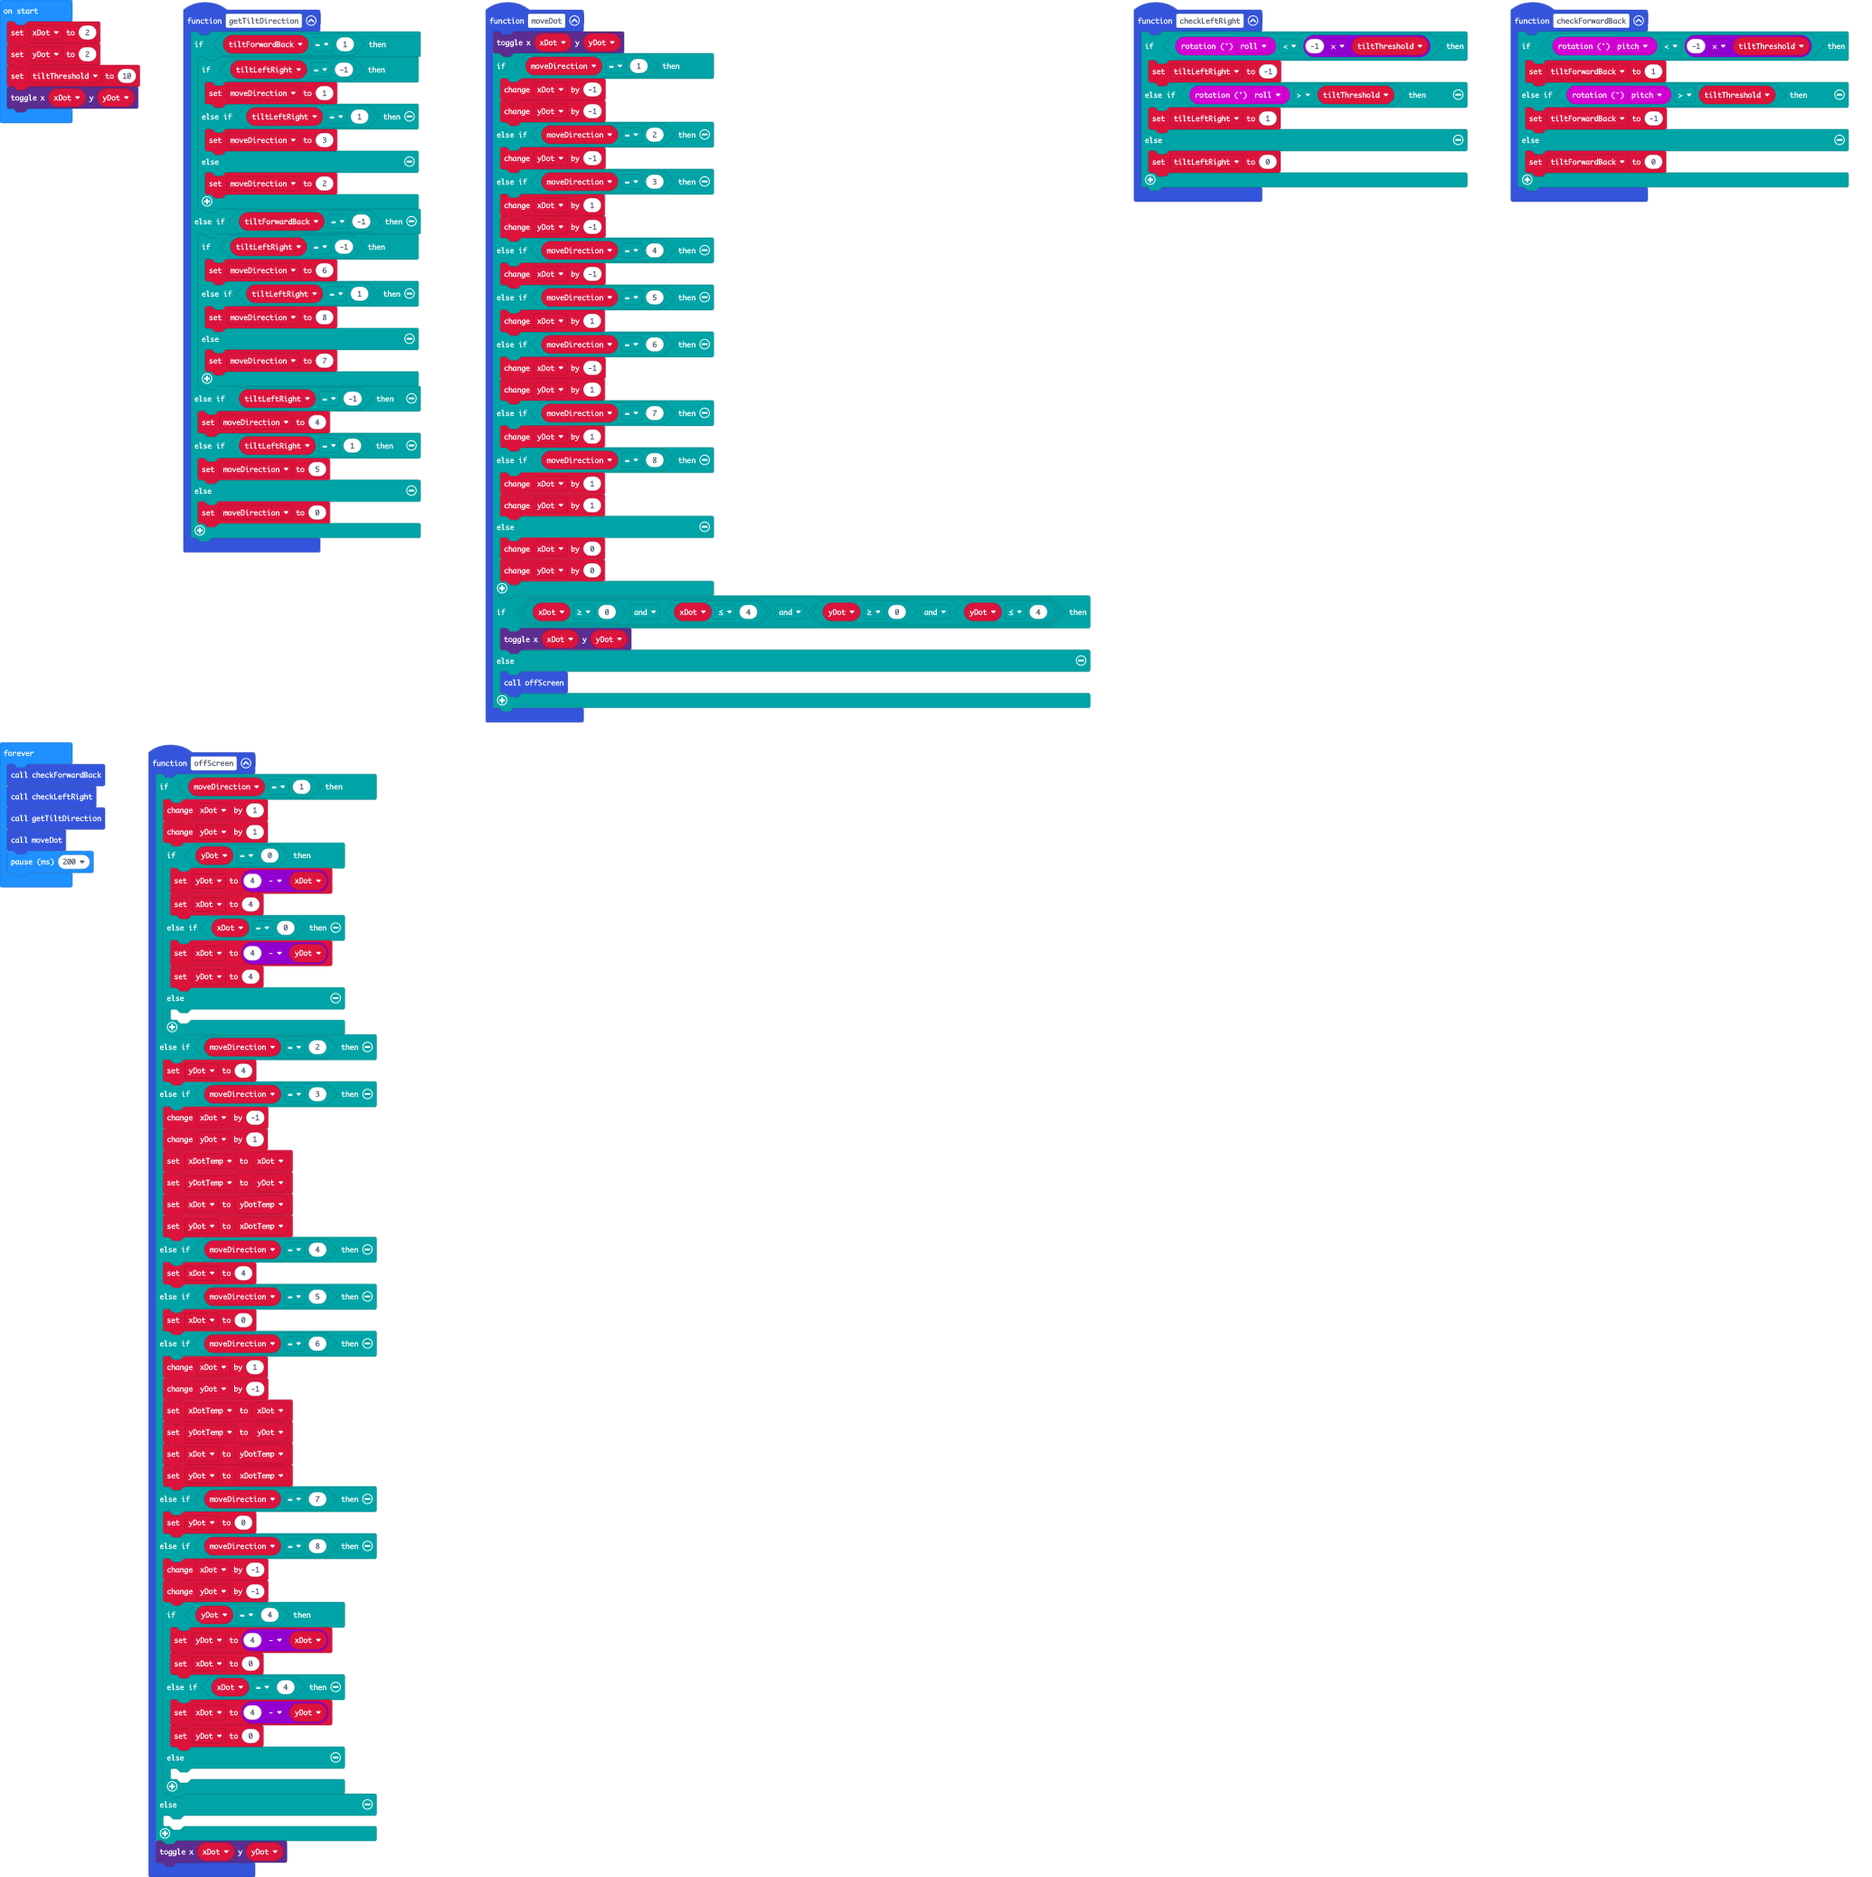
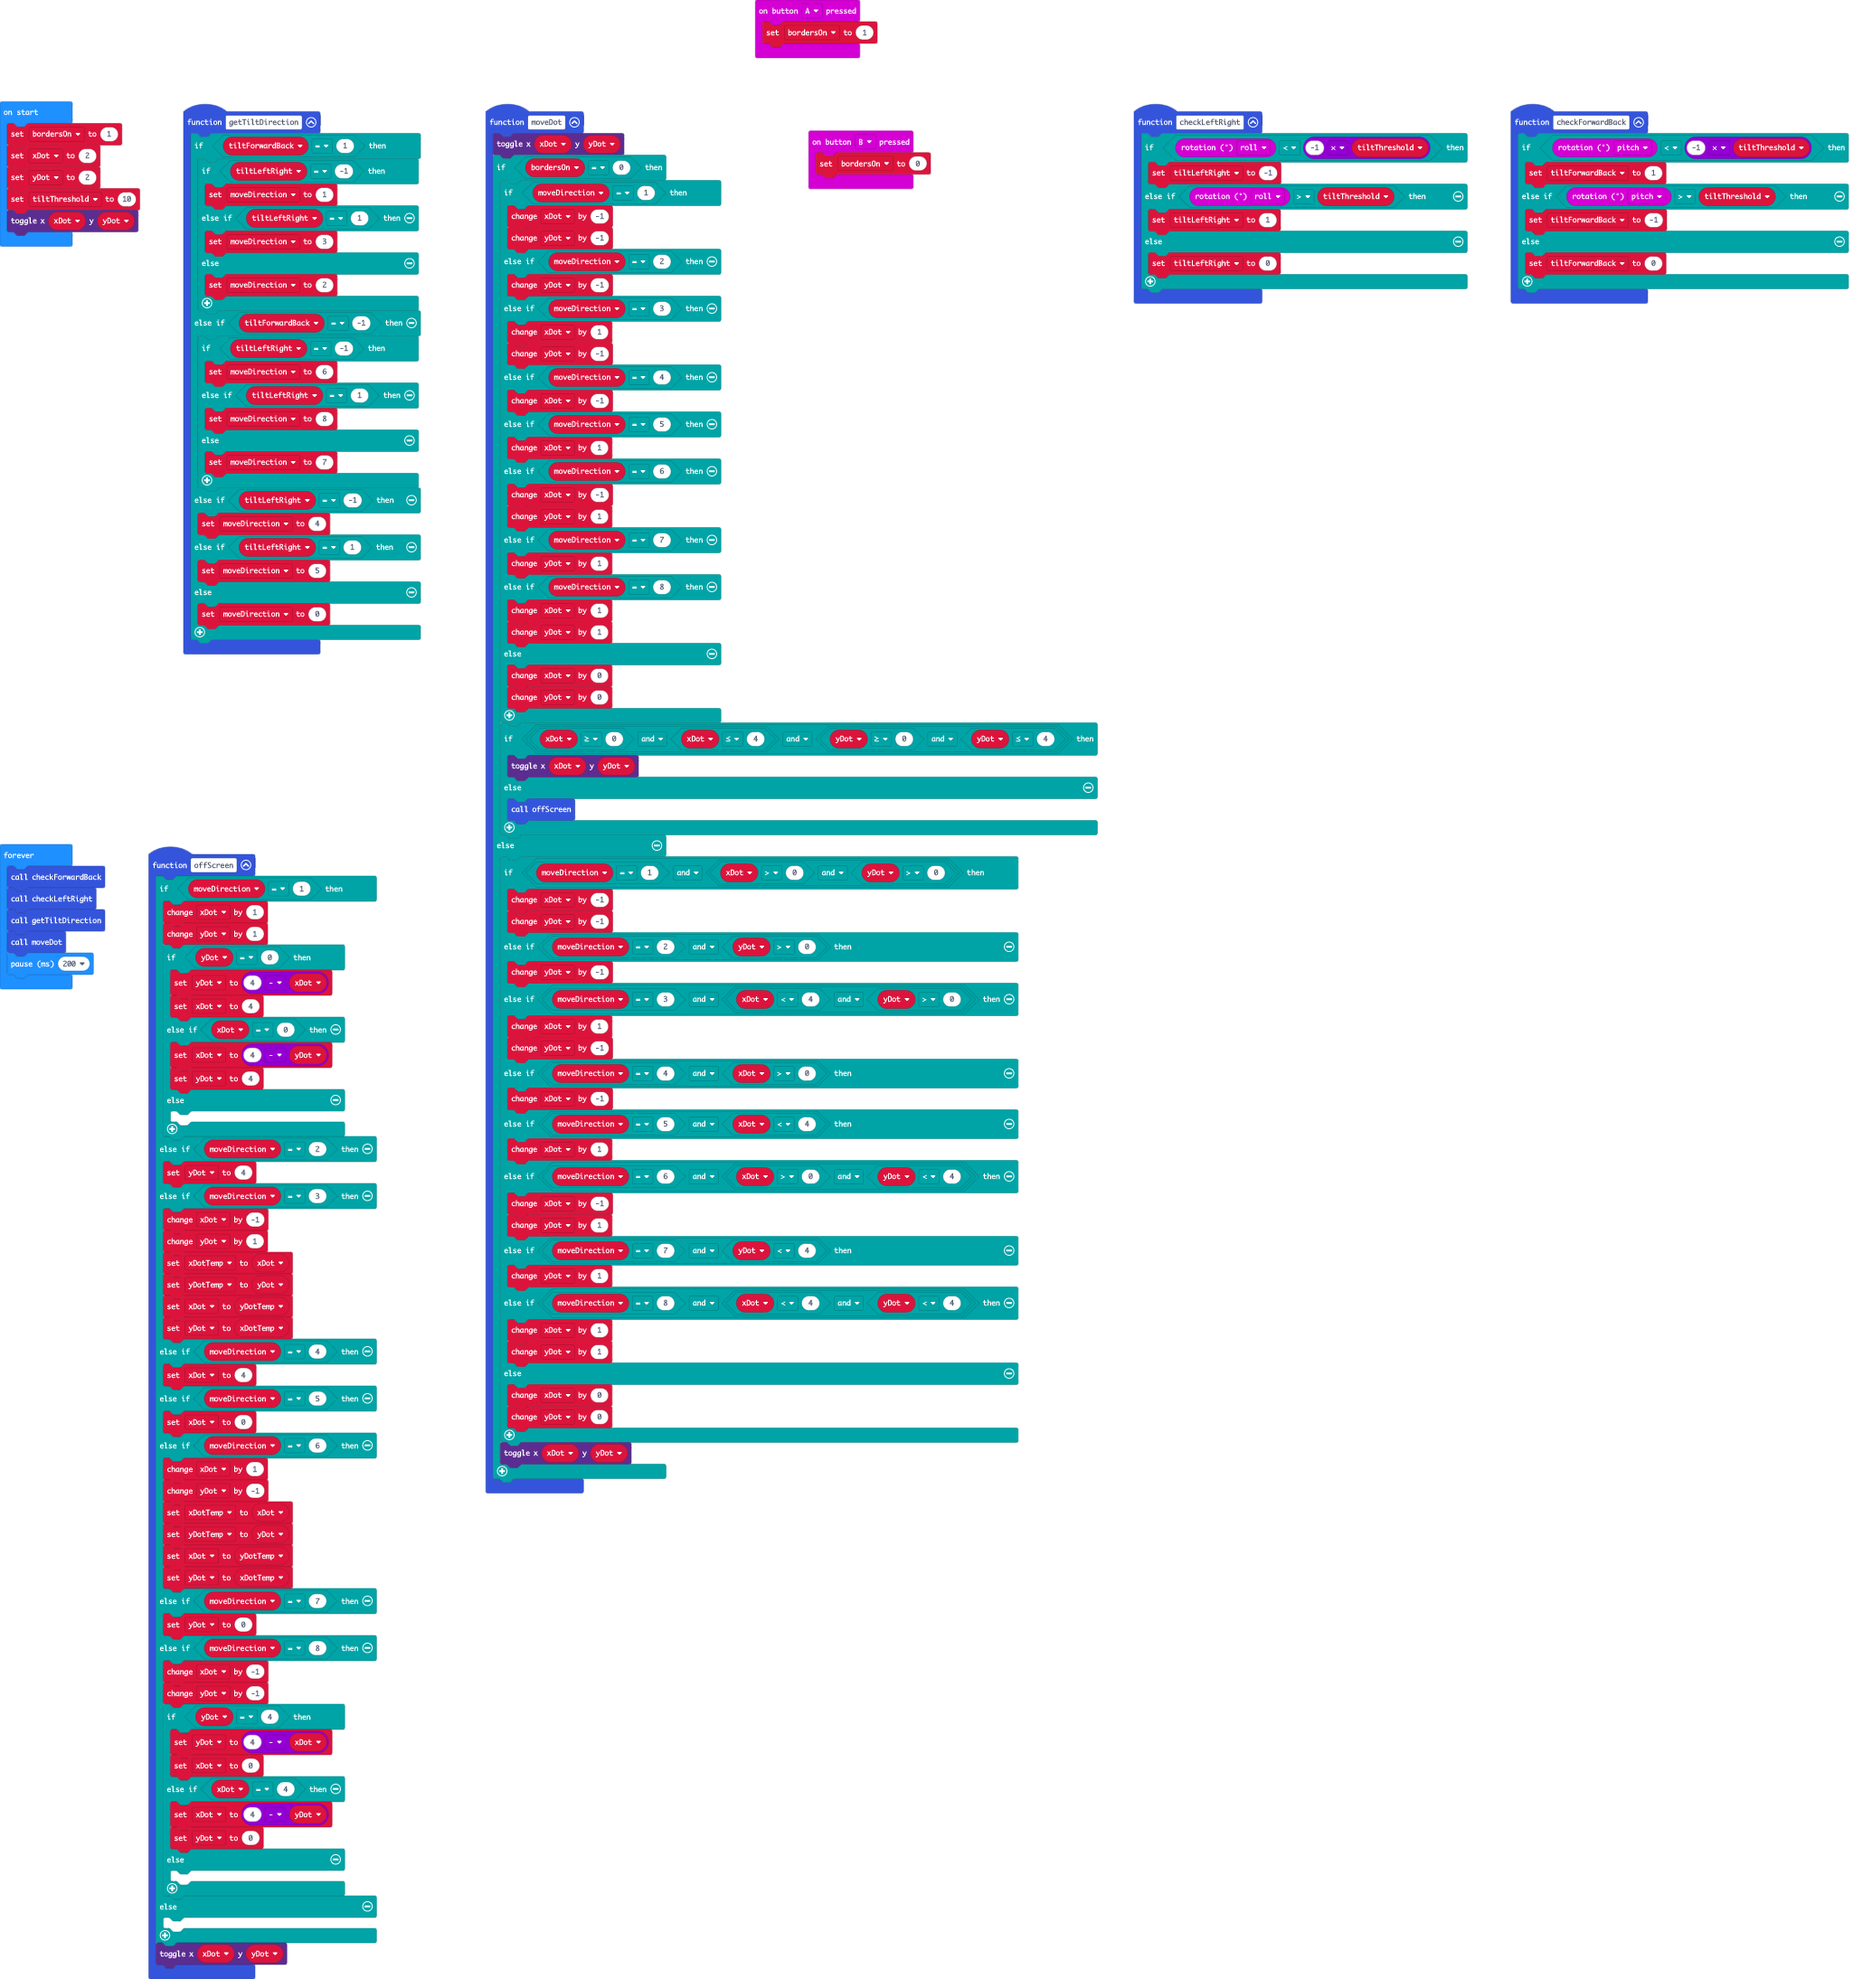
Two modes - bordersOn and noBorders

diff --git a/main.ts b/main.ts
@@ -7,6 +7,9 @@ function checkLeftRight () {
         tiltLeftRight = 0
     }
 }
+input.onButtonPressed(Button.A, function () {
+    bordersOn = 1
+})
 function getTiltDirection () {
     if (tiltForwardBack == 1) {
         if (tiltLeftRight == -1) {
@@ -41,6 +44,9 @@ function checkForwardBack () {
         tiltForwardBack = 0
     }
 }
+input.onButtonPressed(Button.B, function () {
+    bordersOn = 0
+})
 function offScreen () {
     if (moveDirection == 1) {
         xDot += 1
@@ -95,34 +101,62 @@ function offScreen () {
 }
 function moveDot () {
     led.toggle(xDot, yDot)
-    if (moveDirection == 1) {
-        xDot += -1
-        yDot += -1
-    } else if (moveDirection == 2) {
-        yDot += -1
-    } else if (moveDirection == 3) {
-        xDot += 1
-        yDot += -1
-    } else if (moveDirection == 4) {
-        xDot += -1
-    } else if (moveDirection == 5) {
-        xDot += 1
-    } else if (moveDirection == 6) {
-        xDot += -1
-        yDot += 1
-    } else if (moveDirection == 7) {
-        yDot += 1
-    } else if (moveDirection == 8) {
-        xDot += 1
-        yDot += 1
+    if (bordersOn == 0) {
+        if (moveDirection == 1) {
+            xDot += -1
+            yDot += -1
+        } else if (moveDirection == 2) {
+            yDot += -1
+        } else if (moveDirection == 3) {
+            xDot += 1
+            yDot += -1
+        } else if (moveDirection == 4) {
+            xDot += -1
+        } else if (moveDirection == 5) {
+            xDot += 1
+        } else if (moveDirection == 6) {
+            xDot += -1
+            yDot += 1
+        } else if (moveDirection == 7) {
+            yDot += 1
+        } else if (moveDirection == 8) {
+            xDot += 1
+            yDot += 1
+        } else {
+            xDot += 0
+            yDot += 0
+        }
+        if (xDot >= 0 && xDot <= 4 && (yDot >= 0 && yDot <= 4)) {
+            led.toggle(xDot, yDot)
+        } else {
+            offScreen()
+        }
     } else {
-        xDot += 0
-        yDot += 0
-    }
-    if (xDot >= 0 && xDot <= 4 && (yDot >= 0 && yDot <= 4)) {
+        if (moveDirection == 1 && (xDot > 0 && yDot > 0)) {
+            xDot += -1
+            yDot += -1
+        } else if (moveDirection == 2 && yDot > 0) {
+            yDot += -1
+        } else if (moveDirection == 3 && (xDot < 4 && yDot > 0)) {
+            xDot += 1
+            yDot += -1
+        } else if (moveDirection == 4 && xDot > 0) {
+            xDot += -1
+        } else if (moveDirection == 5 && xDot < 4) {
+            xDot += 1
+        } else if (moveDirection == 6 && (xDot > 0 && yDot < 4)) {
+            xDot += -1
+            yDot += 1
+        } else if (moveDirection == 7 && yDot < 4) {
+            yDot += 1
+        } else if (moveDirection == 8 && (xDot < 4 && yDot < 4)) {
+            xDot += 1
+            yDot += 1
+        } else {
+            xDot += 0
+            yDot += 0
+        }
         led.toggle(xDot, yDot)
-    } else {
-        offScreen()
     }
 }
 let yDotTemp = 0
@@ -133,6 +167,8 @@ let tiltLeftRight = 0
 let tiltThreshold = 0
 let yDot = 0
 let xDot = 0
+let bordersOn = 0
+bordersOn = 1
 xDot = 2
 yDot = 2
 tiltThreshold = 10
